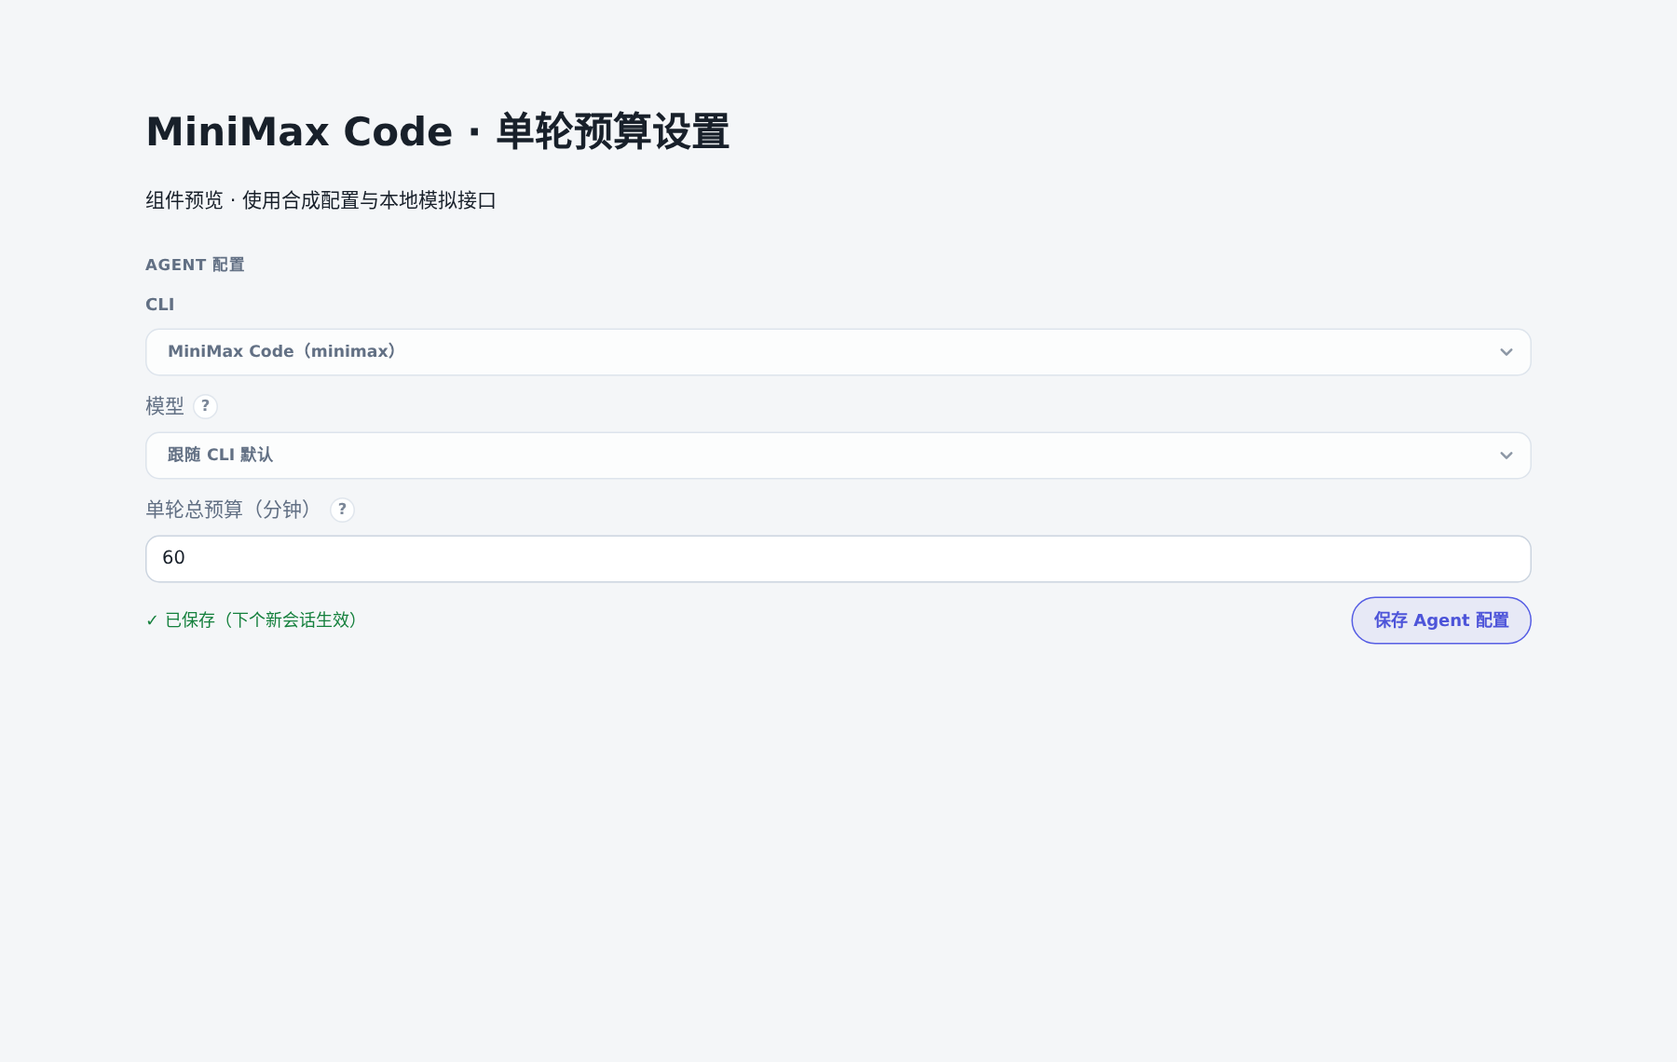
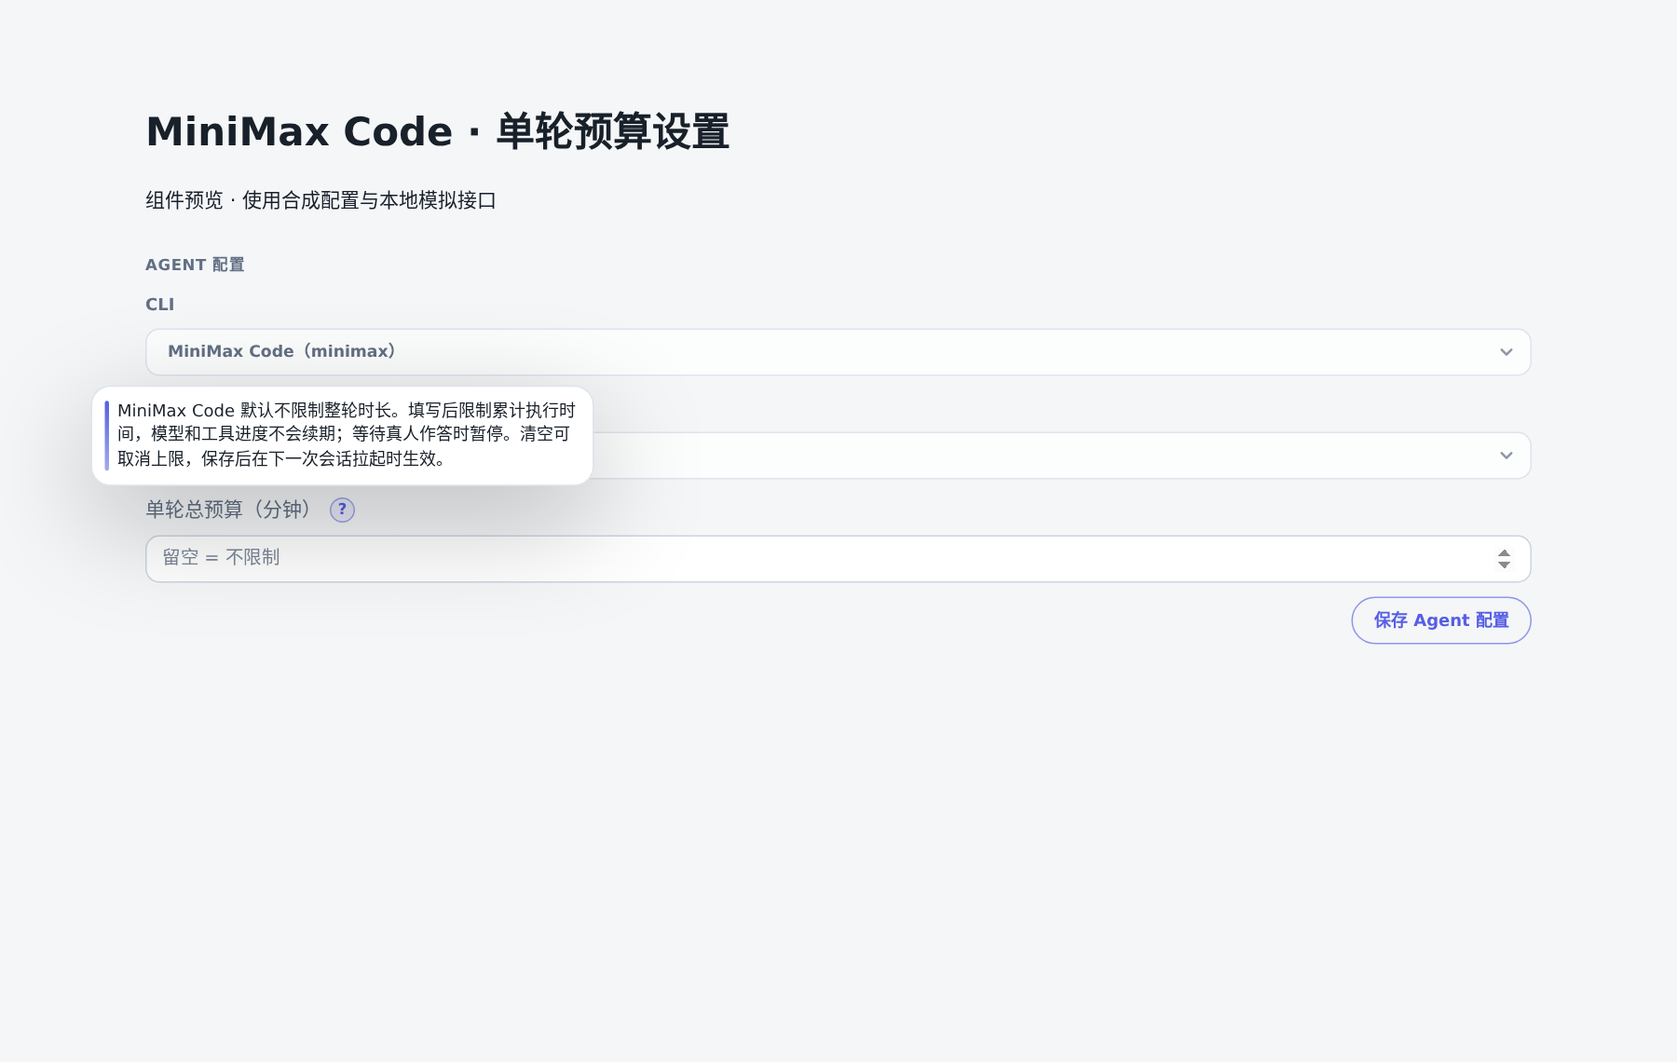
fix(minimax): 默认取消长任务时限并保留可选执行预算

Changed region(s): [[0.0622, 0.3684, 0.3422, 0.5526], [0.1556, 0.5526, 0.1867, 0.614]]

diff --git a/src/minimax-runner.ts b/src/minimax-runner.ts
@@ -3,6 +3,7 @@
  * No latest-session lookup, shell-interpolated prompts, or mmx compatibility. */
 import { delimiter, dirname, resolve } from 'node:path';
 import { RunnerControlWriter } from './adapters/cli/runner-control-channel.js';
+import { MinimaxTurnBudget, parseMinimaxTurnTimeout } from './services/minimax-turn-budget.js';
 import { runMcodeExec } from './services/mcode-exec.js';
 import { runMinimaxAcp } from './services/minimax-acp.js';
 import { bridgeMinimaxForm, bridgeMinimaxPermission } from './services/minimax-user-input.js';
@@ -21,9 +22,11 @@ for (let i = argOffset; i < process.argv.length; i += 2) {
 }
 const executable = values.get('--mcode-bin');
 const permission = values.get('--permission') ?? 'full';
-const timeoutMs = Number(values.get('--turn-timeout-ms') ?? 600_000);
+let timeoutMs: number | undefined;
+try { timeoutMs = parseMinimaxTurnTimeout(values.get('--turn-timeout-ms')); }
+catch { output.error('minimax runner requires a valid permission policy and timeout\n'); process.exit(2); }
 const transport = values.get('--transport') ?? 'acp';
-if (!executable || !['acp', 'exec'].includes(transport) || !['full', 'smart'].includes(permission) || !Number.isSafeInteger(timeoutMs) || timeoutMs <= 0 || timeoutMs > 2_147_483_647) {
+if (!executable || !['acp', 'exec'].includes(transport) || !['full', 'smart'].includes(permission)) {
   output.error('minimax runner requires --mcode-bin, a valid permission policy and timeout\n'); process.exit(2);
 }
 const cwd = resolve(values.get('--cwd') ?? process.cwd());
@@ -66,21 +69,7 @@ async function drain(): Promise<void> {
       const startedAtMs = Date.now();
       const controller = new AbortController();
       active = controller;
-      let remainingMs = timeoutMs;
-      let resumedAt = Date.now();
-      // This is a cumulative execution budget, not an inactivity watchdog.
-      // Progress does not renew it; only human interaction pauses it.
-      const exhaustBudget = () => controller.abort('turn_budget_exhausted');
-      let timer: ReturnType<typeof setTimeout> | undefined = setTimeout(exhaustBudget, remainingMs);
-      const waitingForHuman = (waiting: boolean) => {
-        if (waiting) {
-          if (timer) remainingMs = Math.max(1, remainingMs - (Date.now() - resumedAt));
-          clearTimeout(timer); timer = undefined;
-        } else if (!controller.signal.aborted && !closing) {
-          resumedAt = Date.now();
-          timer = setTimeout(exhaustBudget, remainingMs);
-        }
-      };
+      const budget = new MinimaxTurnBudget(timeoutMs, () => controller.abort('turn_budget_exhausted'));
       output.line('[MiniMax Code] running…');
       const streamedItems = new Set<string>();
       try {
@@ -93,7 +82,10 @@ async function drain(): Promise<void> {
             nativeSessionId = sessionId;
             output.marker('thread', { threadId: sessionId });
           },
-          onInteractionPending: waitingForHuman,
+          onInteractionPending: waiting => {
+            if (controller.signal.aborted || closing) budget.dispose();
+            else budget.waitingForHuman(waiting);
+          },
           onUserInput(method, params, signal) {
             const context = { sessionId: nativeEnv.BOTMUX_SESSION_ID ?? '',
               larkAppId: nativeEnv.BOTMUX_LARK_APP_ID ?? '', chatId: nativeEnv.BOTMUX_CHAT_ID ?? '',
@@ -135,16 +127,18 @@ async function drain(): Promise<void> {
           ...(turn.turnId ? { turnId: turn.turnId } : {}), startedAtMs, completedAtMs: Date.now() });
       } catch (error) {
         if (!closing) {
-          const message = controller.signal.reason === 'turn_budget_exhausted'
-            ? `MiniMax Code 单轮总预算已耗尽（${timeoutMs}ms）。模型输出和工具进度不会重置此预算；可在机器人设置中调大单轮总预算后重新拉起会话。`
+          const errorCode = controller.signal.reason === 'turn_budget_exhausted' ? 'turn_budget_exhausted'
+            : controller.signal.aborted ? 'cancelled' : 'execution_failed';
+          const message = errorCode === 'turn_budget_exhausted'
+            ? `MiniMax Code 单轮总预算已耗尽（${timeoutMs}ms）。模型输出和工具进度不会重置此预算；可在机器人设置中调大或清空单轮总预算后重新拉起会话。`
             : controller.signal.aborted ? 'MiniMax Code 本轮执行已中断。'
             : `MiniMax Code 执行失败：${error instanceof Error ? error.message : String(error)}`;
           finishDisplay(); displayText(message); finishDisplay();
-          output.marker('final', { content: message, ...(turn.turnId ? { turnId: turn.turnId } : {}),
+          output.marker('final', { content: message, errorCode, ...(turn.turnId ? { turnId: turn.turnId } : {}),
             startedAtMs, completedAtMs: Date.now() });
         }
       } finally {
-        clearTimeout(timer); active = undefined;
+        budget.dispose(); active = undefined;
       }
       finishDisplay();
       if (!closing) prompt();

diff --git a/src/dashboard/web/i18n.ts b/src/dashboard/web/i18n.ts
@@ -2335,10 +2335,12 @@ const zh = {
   'botDefaults.agentModelBackendVariantMax': 'Max',
   'botDefaults.agentReasoningEffort': '思考强度',
   'botDefaults.agentReasoningEffortHelp': '新会话默认使用的思考强度。保存后不会改变已经创建的会话。',
+  'botDefaults.minimaxTurnBudget': '单轮总预算（分钟）',
+  'botDefaults.minimaxTurnBudgetHelp': 'MiniMax Code 默认不限制整轮时长。填写后限制累计执行时间，模型和工具进度不会续期；等待真人作答时暂停。清空可取消上限，保存后在下一次会话拉起时生效。',
   'botDefaults.agentTurnTimeout': '单轮超时（分钟）',
   'botDefaults.agentTurnTimeoutHelp': '仅 dsh CLI 生效：留空时不限制回合时长；填写后作为无进度超时，并设置 4 倍时长的硬上限。保存后在下一次会话拉起时生效。',
   'botDefaults.agentTurnTimeoutPlaceholder': '留空 = 不限制',
-  'botDefaults.agentTurnTimeoutInvalid': '请输入正数分钟；留空表示不限制。可配置的静默超时上限约 35791 分钟。',
+  'botDefaults.agentTurnTimeoutInvalid': '请输入正数分钟；留空表示不限制。可配置的时长上限约 35791 分钟。',
   'botDefaults.dshRuntimeTitle': 'dsh 运行时',
   'botDefaults.dshRuntimeHelp': '选择 dsh 的运行形态：Official dsh 走自研 JSON-RPC runner（headless，结构化事件）；dsh-tui 走交互式 TUI（PTY 驱动，同 claude-code 路线）。切换后下一次会话拉起时生效。',
   'botDefaults.dshRuntimeOfficial': 'Official dsh',
@@ -6020,6 +6022,8 @@ const en: Record<keyof typeof zh, string> = {
   'botDefaults.agentModelBackendVariantMax': 'Max',
   'botDefaults.agentReasoningEffort': 'Reasoning effort',
   'botDefaults.agentReasoningEffortHelp': 'Default reasoning effort for new sessions. Existing sessions are not changed.',
+  'botDefaults.minimaxTurnBudget': 'Turn budget (minutes)',
+  'botDefaults.minimaxTurnBudgetHelp': 'MiniMax Code has no turn duration limit by default. An explicit value caps cumulative execution time; model and tool progress do not renew it. Human input pauses the budget. Clear to remove the limit. Takes effect on the next session spawn.',
   'botDefaults.agentTurnTimeout': 'Turn timeout (minutes)',
   'botDefaults.agentTurnTimeoutHelp': 'dsh CLI only: leave empty for no turn limit. An explicit value is an idle timeout with a hard limit of 4 times that value. Takes effect on the next session spawn.',
   'botDefaults.agentTurnTimeoutPlaceholder': 'Empty = no limit',
@@ -6030,7 +6034,7 @@ const en: Record<keyof typeof zh, string> = {
   'botDefaults.dshProfileCreatePrompt': 'Enter new profile name (default base plugins will be created):',
   'botDefaults.dshProfileCreated': 'Profile "{name}" created',
   'botDefaults.dshProfileCreateFailed': 'Creation failed, check server logs',
-  'botDefaults.agentTurnTimeoutInvalid': 'Enter a positive number of minutes; leave empty for no limit. Maximum configurable idle timeout ≈ 35791 minutes.',
+  'botDefaults.agentTurnTimeoutInvalid': 'Enter a positive number of minutes; leave empty for no limit. Maximum configurable duration ≈ 35791 minutes.',
   'botDefaults.dshRuntimeTitle': 'dsh Runtime',
   'botDefaults.dshRuntimeHelp': 'Choose the dsh runtime variant: Official dsh uses the built-in JSON-RPC runner (headless, structured events); dsh-tui uses the interactive TUI (PTY-driven, same approach as claude-code). Takes effect on the next session spawn.',
   'botDefaults.dshRuntimeOfficial': 'Official dsh',

diff --git a/test/minimax-turn-budget.test.ts b/test/minimax-turn-budget.test.ts
@@ -1,0 +1,80 @@
+import { describe, expect, it, vi } from 'vitest';
+import { MinimaxTurnBudget, parseMinimaxTurnTimeout } from '../src/services/minimax-turn-budget.js';
+
+// Explicit clock: exercise elapsed time and stale callbacks without real sleeps
+// or dependence on Node/Bun's fake-timer implementation.
+function fixture(raw?: string) {
+  let now = 0;
+  let id = 0;
+  const tasks = new Map<number, { at: number; callback: () => void }>();
+  const exhaust = vi.fn();
+  const budget = new MinimaxTurnBudget(parseMinimaxTurnTimeout(raw), exhaust, {
+    now: () => now,
+    setTimeout(callback, ms) {
+      tasks.set(++id, { at: now + ms, callback });
+      return id as unknown as ReturnType<typeof setTimeout>;
+    },
+    clearTimeout(timer) { tasks.delete(timer as unknown as number); },
+  });
+  return { budget, exhaust, tasks, advance(ms: number) {
+    const until = now + ms;
+    for (;;) {
+      const next = [...tasks].filter(([, task]) => task.at <= until).sort((a, b) => a[1].at - b[1].at)[0];
+      if (!next) break;
+      tasks.delete(next[0]); now = next[1].at; next[1].callback();
+    }
+    now = until;
+  } };
+}
+
+describe('MiniMax opt-in turn budget', () => {
+  it('runs past the old ten-minute boundary by default, including human waits', () => {
+    const f = fixture();
+    f.advance(601_000);
+    expect(f.exhaust).not.toHaveBeenCalled();
+    f.budget.waitingForHuman(true);
+    f.advance(3_600_000);
+    f.budget.waitingForHuman(false);
+    f.advance(3_600_000);
+    expect(f.exhaust).not.toHaveBeenCalled();
+    expect(f.tasks.size).toBe(0);
+    f.budget.dispose();
+  });
+
+  it('keeps an explicitly configured total budget and exhausts it exactly once', () => {
+    const f = fixture('600000');
+    f.advance(599_999); expect(f.exhaust).not.toHaveBeenCalled();
+    f.advance(1); expect(f.exhaust).toHaveBeenCalledTimes(1);
+    f.budget.waitingForHuman(true); f.budget.waitingForHuman(false);
+    f.advance(600_000); expect(f.exhaust).toHaveBeenCalledTimes(1);
+  });
+
+  it('charges only execution across multiple human waits and tolerates repeated state', () => {
+    const f = fixture('1000');
+    f.advance(400); f.budget.waitingForHuman(true);
+    f.advance(4000); f.budget.waitingForHuman(true);
+    f.advance(4000); f.budget.waitingForHuman(false);
+    f.advance(300); f.budget.waitingForHuman(false);
+    f.budget.waitingForHuman(true); f.advance(4000);
+    f.budget.waitingForHuman(false);
+    f.advance(299); expect(f.exhaust).not.toHaveBeenCalled();
+    f.advance(1); expect(f.exhaust).toHaveBeenCalledTimes(1);
+  });
+
+  it('ignores a queued old timer after pause and after disposal', () => {
+    const f = fixture('1000');
+    const stale = [...f.tasks.values()][0].callback;
+    f.advance(200); f.budget.waitingForHuman(true);
+    f.advance(2000); f.budget.waitingForHuman(false);
+    stale(); expect(f.exhaust).not.toHaveBeenCalled();
+    const current = [...f.tasks.values()][0].callback;
+    f.budget.dispose(); f.budget.waitingForHuman(false);
+    current(); f.advance(2000);
+    expect(f.exhaust).not.toHaveBeenCalled();
+    expect(f.tasks.size).toBe(0);
+  });
+
+  it.each(['', '0', '-1', '1.5', 'NaN', 'Infinity', '2147483648'])('rejects invalid explicit budgets: %s', raw => {
+    expect(() => fixture(raw)).toThrow();
+  });
+});

diff --git a/test/minimax-acp.test.ts b/test/minimax-acp.test.ts
@@ -370,7 +370,7 @@ it.each([false, true])('default ACP runner preserves queue attribution, native i
     send('hang', 'three'); await waitFor(() => existsSync(f.log) && f.calls().some(c => c.message?.params?.prompt?.[0]?.text === 'hang'));
     child.stdin.write('\x03');
     await waitFor(() => markers().filter(m => m.kind === 'final').length === 3);
-    expect(markers().filter(m => m.kind === 'final').at(-1)?.payload.content).toBe('MiniMax Code 本轮执行已中断。');
+    expect(markers().filter(m => m.kind === 'final').at(-1)?.payload.errorCode).toBe('cancelled');
     send('healthy', 'four');
     await waitFor(() => markers().filter(m => m.kind === 'final').length === 4);
     expect(markers().filter(m => m.kind === 'final').at(-1)?.payload).toMatchObject({ turnId: 'four', content: 'answer:healthy' });
@@ -396,8 +396,7 @@ it.each([false, true])('exhausts the cumulative budget despite progress and runs
     await waitFor(() => stdout.includes('progress-2'));
     send('healthy', 'queued');
     await waitFor(() => finals().length === 2);
-    expect(finals()[0]).toMatchObject({ turnId: 'budget', content: expect.stringContaining('单轮总预算已耗尽（2000ms）') });
-    expect(finals()[0].content).toContain('模型输出和工具进度不会重置');
+    expect(finals()[0]).toMatchObject({ turnId: 'budget', errorCode: 'turn_budget_exhausted' });
     expect(finals()[1]).toMatchObject({ turnId: 'queued', content: 'answer:healthy' });
     expect(f.calls().filter(c => c.message?.method === 'session/resume')).toHaveLength(resume ? 2 : 1);
     await stopped(f.calls()[0].pid);
@@ -438,9 +437,14 @@ it.each(['permission', 'permission-hang'])('pauses the runner budget for a human
     pendingAsk!.res.setHeader('content-type', 'application/json');
     pendingAsk!.res.end(JSON.stringify({ kind: 'answered', answers: [[key]] }));
     await waitFor(() => finals().length === 1);
-    expect(finals()[0]).toMatchObject({ turnId: 'human', content: expect.stringContaining(
-      content === 'permission' ? 'deny' : '单轮总预算已耗尽（2000ms）') });
-    if (content === 'permission-hang') expect(stdout).toContain('progress-2');
+    expect(finals()[0].turnId).toBe('human');
+    if (content === 'permission-hang') {
+      expect(finals()[0].errorCode).toBe('turn_budget_exhausted');
+      expect(stdout).toContain('progress-2');
+    } else {
+      expect(finals()[0].errorCode).toBeUndefined();
+      expect(finals()[0].content).toContain('deny');
+    }
   } finally {
     child.kill('SIGTERM'); await closed;
     await new Promise<void>(r => server.close(() => r()));

diff --git a/src/services/minimax-turn-budget.ts b/src/services/minimax-turn-budget.ts
@@ -1,0 +1,69 @@
+/** MiniMax's opt-in cumulative execution budget. It is not an idle watchdog. */
+export function parseMinimaxTurnTimeout(raw: string | undefined): number | undefined {
+  if (raw === undefined) return undefined;
+  const ms = Number(raw);
+  if (!Number.isSafeInteger(ms) || ms <= 0 || ms > 2_147_483_647) {
+    throw new Error('Invalid MiniMax turn budget');
+  }
+  return ms;
+}
+
+interface BudgetClock {
+  now(): number;
+  setTimeout(callback: () => void, ms: number): ReturnType<typeof setTimeout>;
+  clearTimeout(timer: ReturnType<typeof setTimeout>): void;
+}
+
+const systemClock: BudgetClock = {
+  now: () => performance.now(),
+  setTimeout: (callback, ms) => setTimeout(callback, ms),
+  clearTimeout: timer => clearTimeout(timer),
+};
+
+export class MinimaxTurnBudget {
+  private timer?: ReturnType<typeof setTimeout>;
+  private remainingMs?: number;
+  private resumedAt = 0;
+  private waiting = false;
+  private stopped = false;
+  private generation = 0;
+
+  constructor(timeoutMs: number | undefined, private readonly exhaust: () => void,
+    private readonly clock: BudgetClock = systemClock) {
+    this.remainingMs = timeoutMs;
+    this.arm();
+  }
+
+  waitingForHuman(waiting: boolean): void {
+    if (this.stopped || waiting === this.waiting) return;
+    this.waiting = waiting;
+    if (waiting) {
+      if (this.remainingMs !== undefined) {
+        this.remainingMs = Math.max(0, this.remainingMs - (this.clock.now() - this.resumedAt));
+      }
+      this.clear();
+    } else this.arm();
+  }
+
+  dispose(): void {
+    this.stopped = true;
+    this.clear();
+  }
+
+  private clear(): void {
+    ++this.generation;
+    if (this.timer !== undefined) this.clock.clearTimeout(this.timer);
+    this.timer = undefined;
+  }
+
+  private arm(): void {
+    if (this.remainingMs === undefined || this.stopped) return;
+    this.resumedAt = this.clock.now();
+    const generation = ++this.generation;
+    this.timer = this.clock.setTimeout(() => {
+      if (this.stopped || this.waiting || this.generation !== generation) return;
+      this.dispose();
+      this.exhaust();
+    }, this.remainingMs);
+  }
+}

diff --git a/test/minimax-runner.test.ts b/test/minimax-runner.test.ts
@@ -300,7 +300,7 @@ it.each([
 it('kills a hung invocation and permits a later turn in the same native session', async () => {
   const { h, send } = runner(['--turn-timeout-ms', '1000']); send('hang', 'one');
   await waitFor(() => markers(h.stdout).some(m => m.kind === 'final'));
-  expect(markers(h.stdout).find(m => m.kind === 'final')?.payload.content).toContain('单轮总预算已耗尽（1000ms）');
+  expect(markers(h.stdout).find(m => m.kind === 'final')?.payload.errorCode).toBe('turn_budget_exhausted');
   send('next', 'two'); await waitFor(() => markers(h.stdout).filter(m => m.kind === 'final').length === 2);
   expect(markers(h.stdout).filter(m => m.kind === 'final')[1].payload.content).toBe('answer:next');
 });
@@ -309,6 +309,23 @@ it('rejects a timer overflow before starting native work', async () => {
   const { h } = runner(['--turn-timeout-ms', '2147483648']);
   await waitFor(() => h.child.exitCode !== null);
   expect(await h.closed).toEqual({ code: 2, signal: null });
-  expect(h.stderr).toContain('valid permission policy and timeout');
+  expect(h.stderr.length).toBeGreaterThan(0);
   expect(existsSync(h.log)).toBe(false);
+});
+
+it.each([false, true])('does not inject a native exec timeout unless configured (resume: %s)', async resume => {
+  const { h, send } = runner(resume ? ['--native-session-id', 'session_fixture'] : []);
+  send('healthy', 'unbounded');
+  await waitFor(() => markers(h.stdout).some(m => m.kind === 'final'));
+  expect(markers(h.stdout).find(m => m.kind === 'final')?.payload).toMatchObject({ content: 'answer:healthy', turnId: 'unbounded' });
+  const calls = readFileSync(h.log, 'utf8').trim().split('\n').map(line => JSON.parse(line));
+  expect(calls[0].args).not.toContain('--timeout');
+});
+
+it('forwards an explicit budget to native exec', async () => {
+  const { h, send } = runner(['--turn-timeout-ms', '3600000']);
+  send('healthy', 'bounded');
+  await waitFor(() => markers(h.stdout).some(m => m.kind === 'final'));
+  const call = JSON.parse(readFileSync(h.log, 'utf8').trim());
+  expect(call.args[call.args.indexOf('--timeout') + 1]).toBe('3600000ms');
 });

diff --git a/src/services/mcode-exec.ts b/src/services/mcode-exec.ts
@@ -10,7 +10,7 @@ export interface McodeExecOptions {
   model?: string;
   effort?: string;
   permission: 'full' | 'smart';
-  timeoutMs: number;
+  timeoutMs?: number;
   onEvent?: (event: Record<string, any>) => void;
 }
 
@@ -24,7 +24,8 @@ export interface McodeExecResult {
  * answer; item/turn completion and a clean process exit alone are insufficient. */
 export async function runMcodeExec(opts: McodeExecOptions, signal: AbortSignal): Promise<McodeExecResult> {
   const args = ['exec', '--input', '-', '--cwd', opts.cwd, '--output-format', 'stream-json',
-    '--permission', opts.permission, '--timeout', `${opts.timeoutMs}ms`];
+    '--permission', opts.permission];
+  if (opts.timeoutMs !== undefined) args.push('--timeout', `${opts.timeoutMs}ms`);
   if (opts.nativeSessionId) args.push('--session', opts.nativeSessionId);
   if (opts.model) args.push('--model', opts.model);
   if (opts.effort) args.push('--effort', opts.effort);

diff --git a/src/bot-registry.ts b/src/bot-registry.ts
@@ -1545,11 +1545,12 @@ export interface BotConfig {
   /** Optional TraeX backend variant. Missing inherits TraeX global config. */
   modelBackendVariant?: 'standard' | 'max';
   /**
-   * Per-bot dsh runner turn timeout in milliseconds. The dsh adapter forwards
+   * Per-bot dsh / MiniMax runner timeout in milliseconds. The dsh adapter forwards
    * it as `--turn-timeout-ms` to arm the runner's idle watchdog (with a hard
    * cap of 4x this value). Positive integer only; unset/≤0/non-integer means
    * no watchdog is armed (the default — a turn runs until dsh reports idle).
-   * MiniMax also accepts this field as a total execution budget (human waits pause it).
+   * MiniMax uses an opt-in total execution budget (human waits pause it).
+   * Both runners leave turn duration unlimited when this field is absent.
    * Other adapters ignore the field.
    */
   turnTimeoutMs?: number;

diff --git a/src/dashboard/web/bot-defaults-page.tsx b/src/dashboard/web/bot-defaults-page.tsx
@@ -3117,7 +3117,7 @@ export function BotAgentSection(props: {
       {supportsTurnTimeout && (
         <div className="bd-row">
           <label>
-            <FieldTitle help={tr('botDefaults.agentTurnTimeoutHelp')}>{tr('botDefaults.agentTurnTimeout')}</FieldTitle>
+            <FieldTitle help={tr(isDsh ? 'botDefaults.agentTurnTimeoutHelp' : 'botDefaults.minimaxTurnBudgetHelp')}>{tr(isDsh ? 'botDefaults.agentTurnTimeout' : 'botDefaults.minimaxTurnBudget')}</FieldTitle>
             <input
               type="number"
               min={0}

diff --git a/src/core/dashboard-ipc-server.ts b/src/core/dashboard-ipc-server.ts
@@ -8606,7 +8606,7 @@ ipcRoute('PUT', '/api/bot-agent', requireBoundBot(async (req, res) => {
       });
     }
   }
-  // Per-bot dsh / MiniMax runner turn budget (`--turn-timeout-ms`). The
+  // Per-bot dsh / MiniMax runner timeout (`--turn-timeout-ms`). The
   // field is optional in the body, so distinguish absent (preserve) from
   // present-but-empty (clear → watchdog disabled) like reasoningEffort does.
   const supportsTurnTimeout = selected.cliId === 'dsh' || selected.cliId === 'minimax';

diff --git a/test/dashboard-bot-defaults-cliid.test.ts b/test/dashboard-bot-defaults-cliid.test.ts
@@ -1187,7 +1187,7 @@ describe('Codex-compatible runtime editor', () => {
         await Promise.resolve();
         await Promise.resolve();
       });
-      // Empty → '' so the daemon deletes the field (revert to 10-min default).
+      // Empty → '' so the daemon deletes the field (remove the opt-in limit).
       expect(requests).toEqual([{ cliId, model: '', reasoningEffort: '', turnTimeoutMs: '' }]);
     } finally {
       (globalThis as any).fetch = previousFetch;
